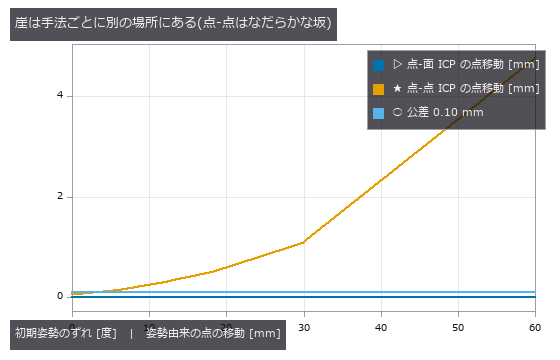
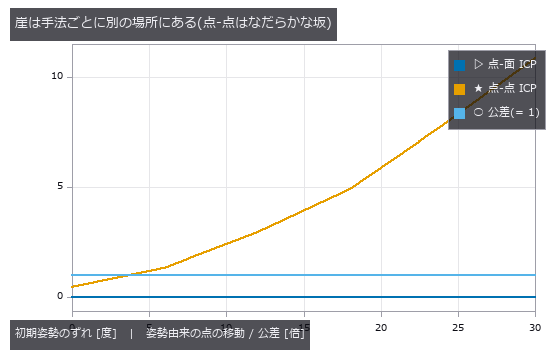
auto: poc_cad_scan_deviation.py 編集前 (2026-09-07 20:26)

diff --git a/examples/poc_cad_scan_deviation.py b/examples/poc_cad_scan_deviation.py
@@ -1150,10 +1150,11 @@ def section_basin(ref: CadRef) -> dict:
           % (b_rows[1][2] / b_rows[0][2]))
 
     figs.save_plot("basin",
-                   [("点-面 ICP の点移動 [mm]", angs[:7], mm1[:7]),
-                    ("点-点 ICP の点移動 [mm]", angs[:7], mm2[:7]),
-                    ("公差 %.2f mm" % TOL, angs[:7], [TOL] * 7)],
-                   xlabel="初期姿勢のずれ [度]", ylabel="姿勢由来の点の移動 [mm]",
+                   [("点-面 ICP", angs[:6], [m / TOL for m in mm1[:6]]),
+                    ("点-点 ICP", angs[:6], [m / TOL for m in mm2[:6]]),
+                    ("公差(= 1)", angs[:6], [1.0] * 6)],
+                   xlabel="初期姿勢のずれ [度]",
+                   ylabel="姿勢由来の点の移動 / 公差 [倍]",
                    title="崖は手法ごとに別の場所にある(点-点はなだらかな坂)",
                    caption="点-面は 60 度まで平ら。点-点は 0〜30 度で公差を"
                            "跨ぐが、残差だけ見ていると「収束した」ように見える。")
